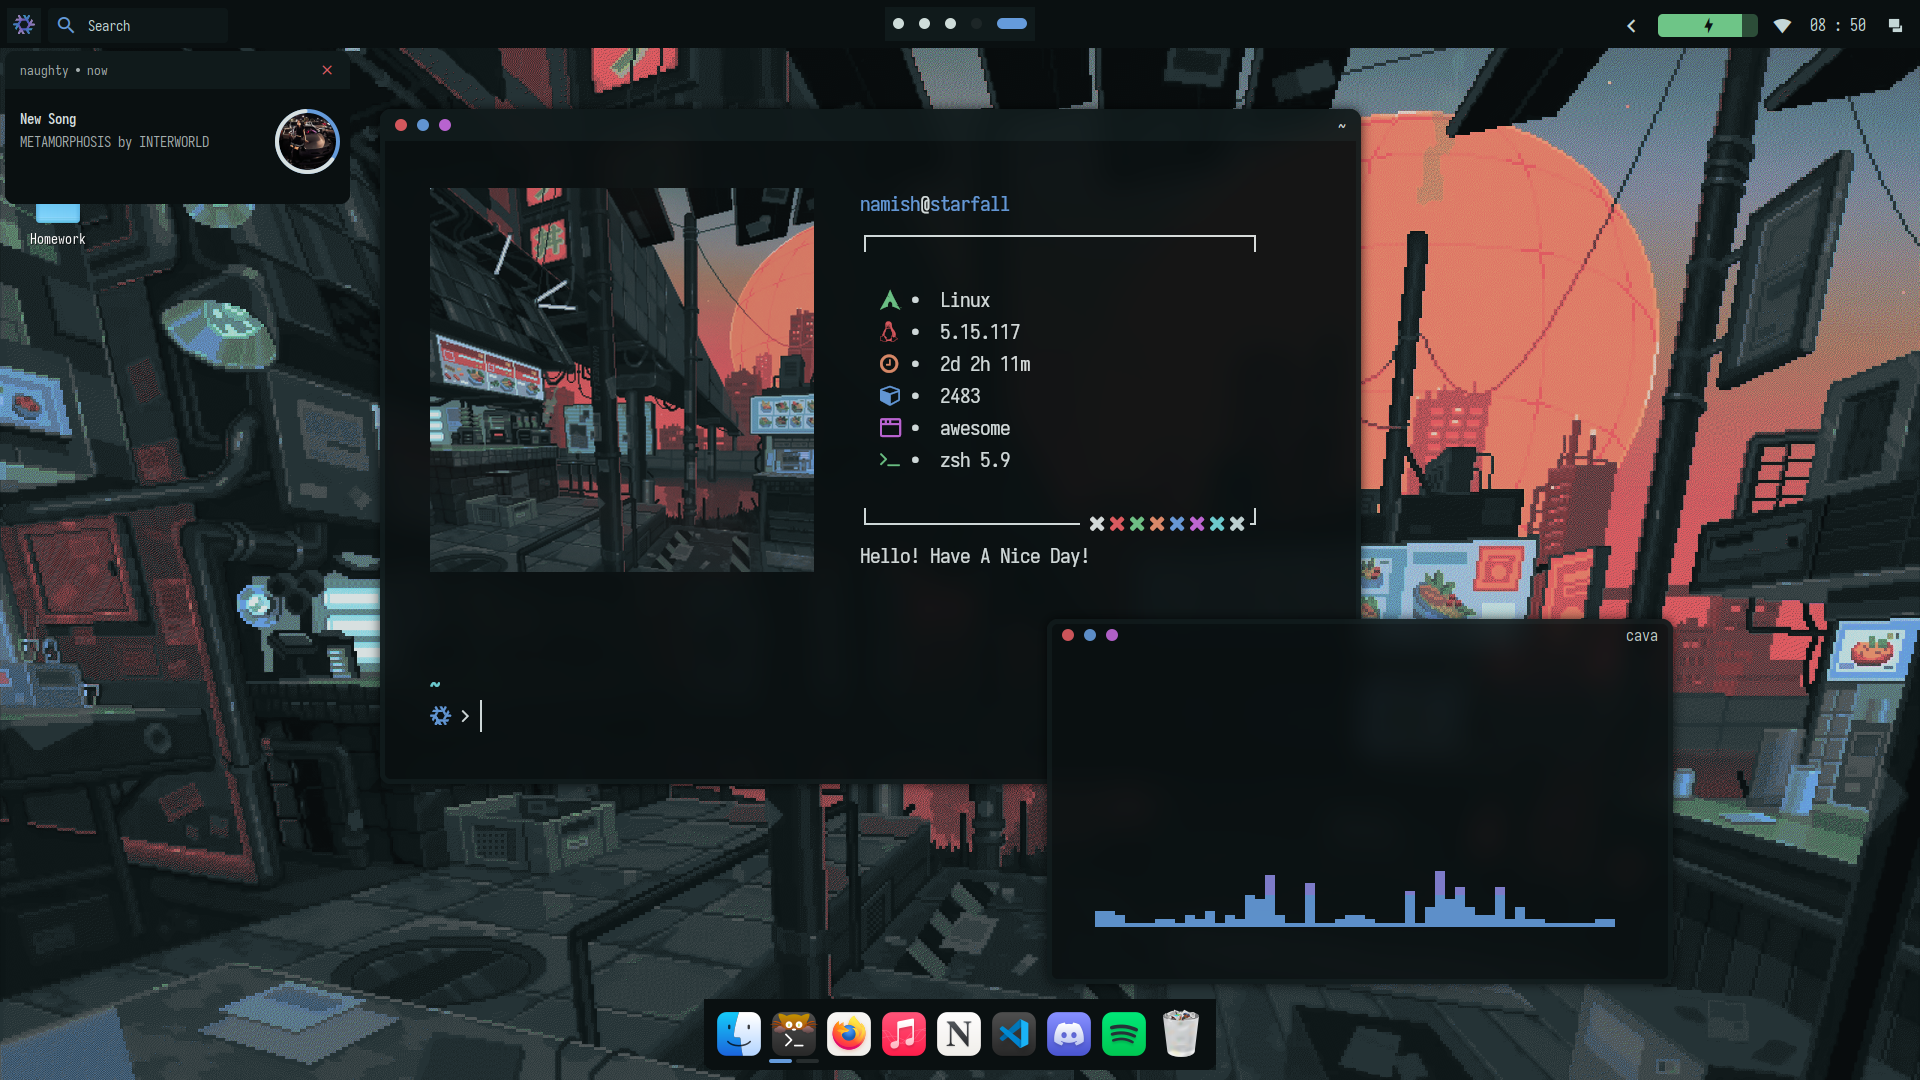
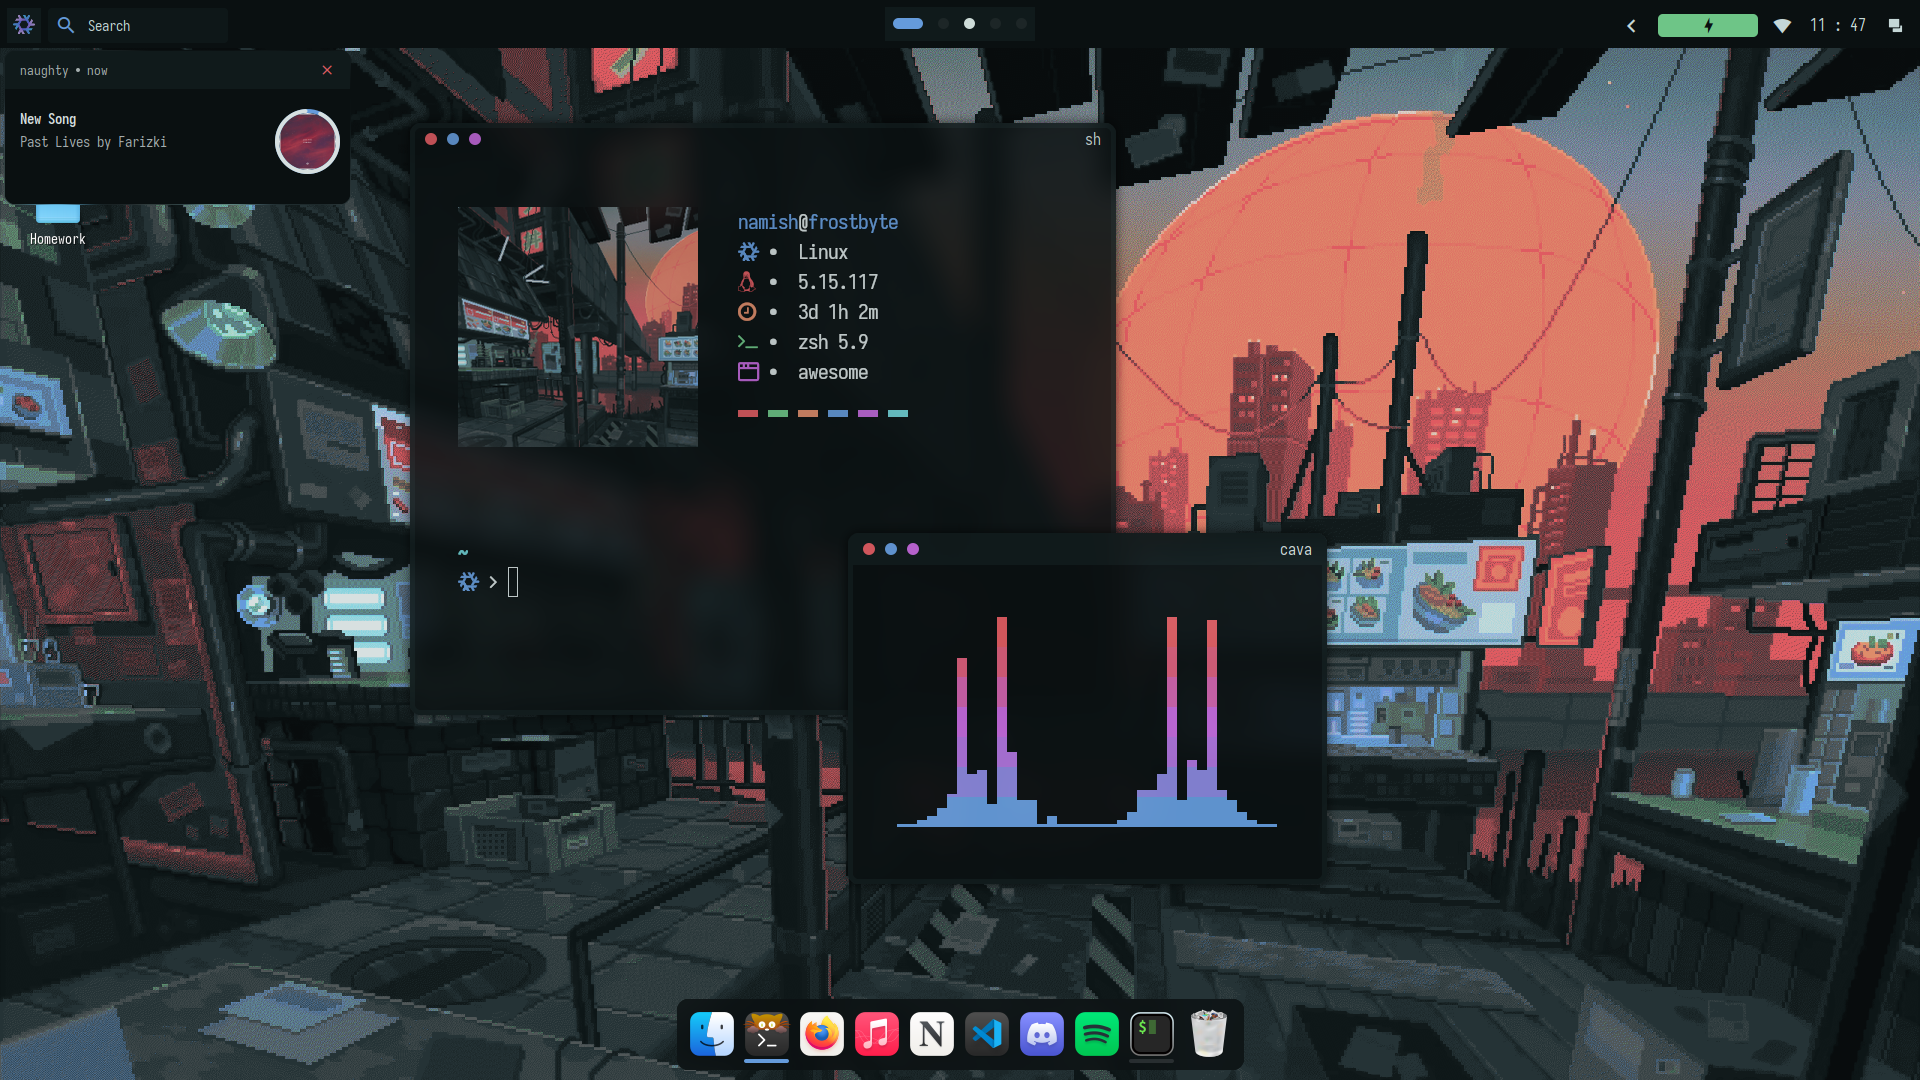
new

diff --git a/.github/README.md b/.github/README.md
@@ -13,6 +13,7 @@
 <img src="screenshots/p1.png" alt="showcase3">
 <img src="screenshots/p2.png" alt="showcase2">
 <img src="screenshots/p3.png" alt="showcase1">
+<img src="screenshots/p4.png" alt="showcase4">
 
 </div>
 
@@ -161,9 +162,6 @@ If you that determined, here are some resources to start out
 | ------------------------------------------------------------------------------------------------------------------ |
 | <a href="#--------"><img src="screenshots/15.png"  alt="bottom panel preview"></a>                    |
 
-| <b>Neofetch</b>                                                                                          |
-| ------------------------------------------------------------------------------------------------------------------ |
-| <a href="#--------"><img src="screenshots/16.png"  alt="bottom panel preview"></a>                    |
 ## Installation
 Make your own dotfiles, installing them is a bad idea as they are made specifically for my machine and there is 1/6th chance that this will make you end up in North Korea's assassination list. <br>
 
